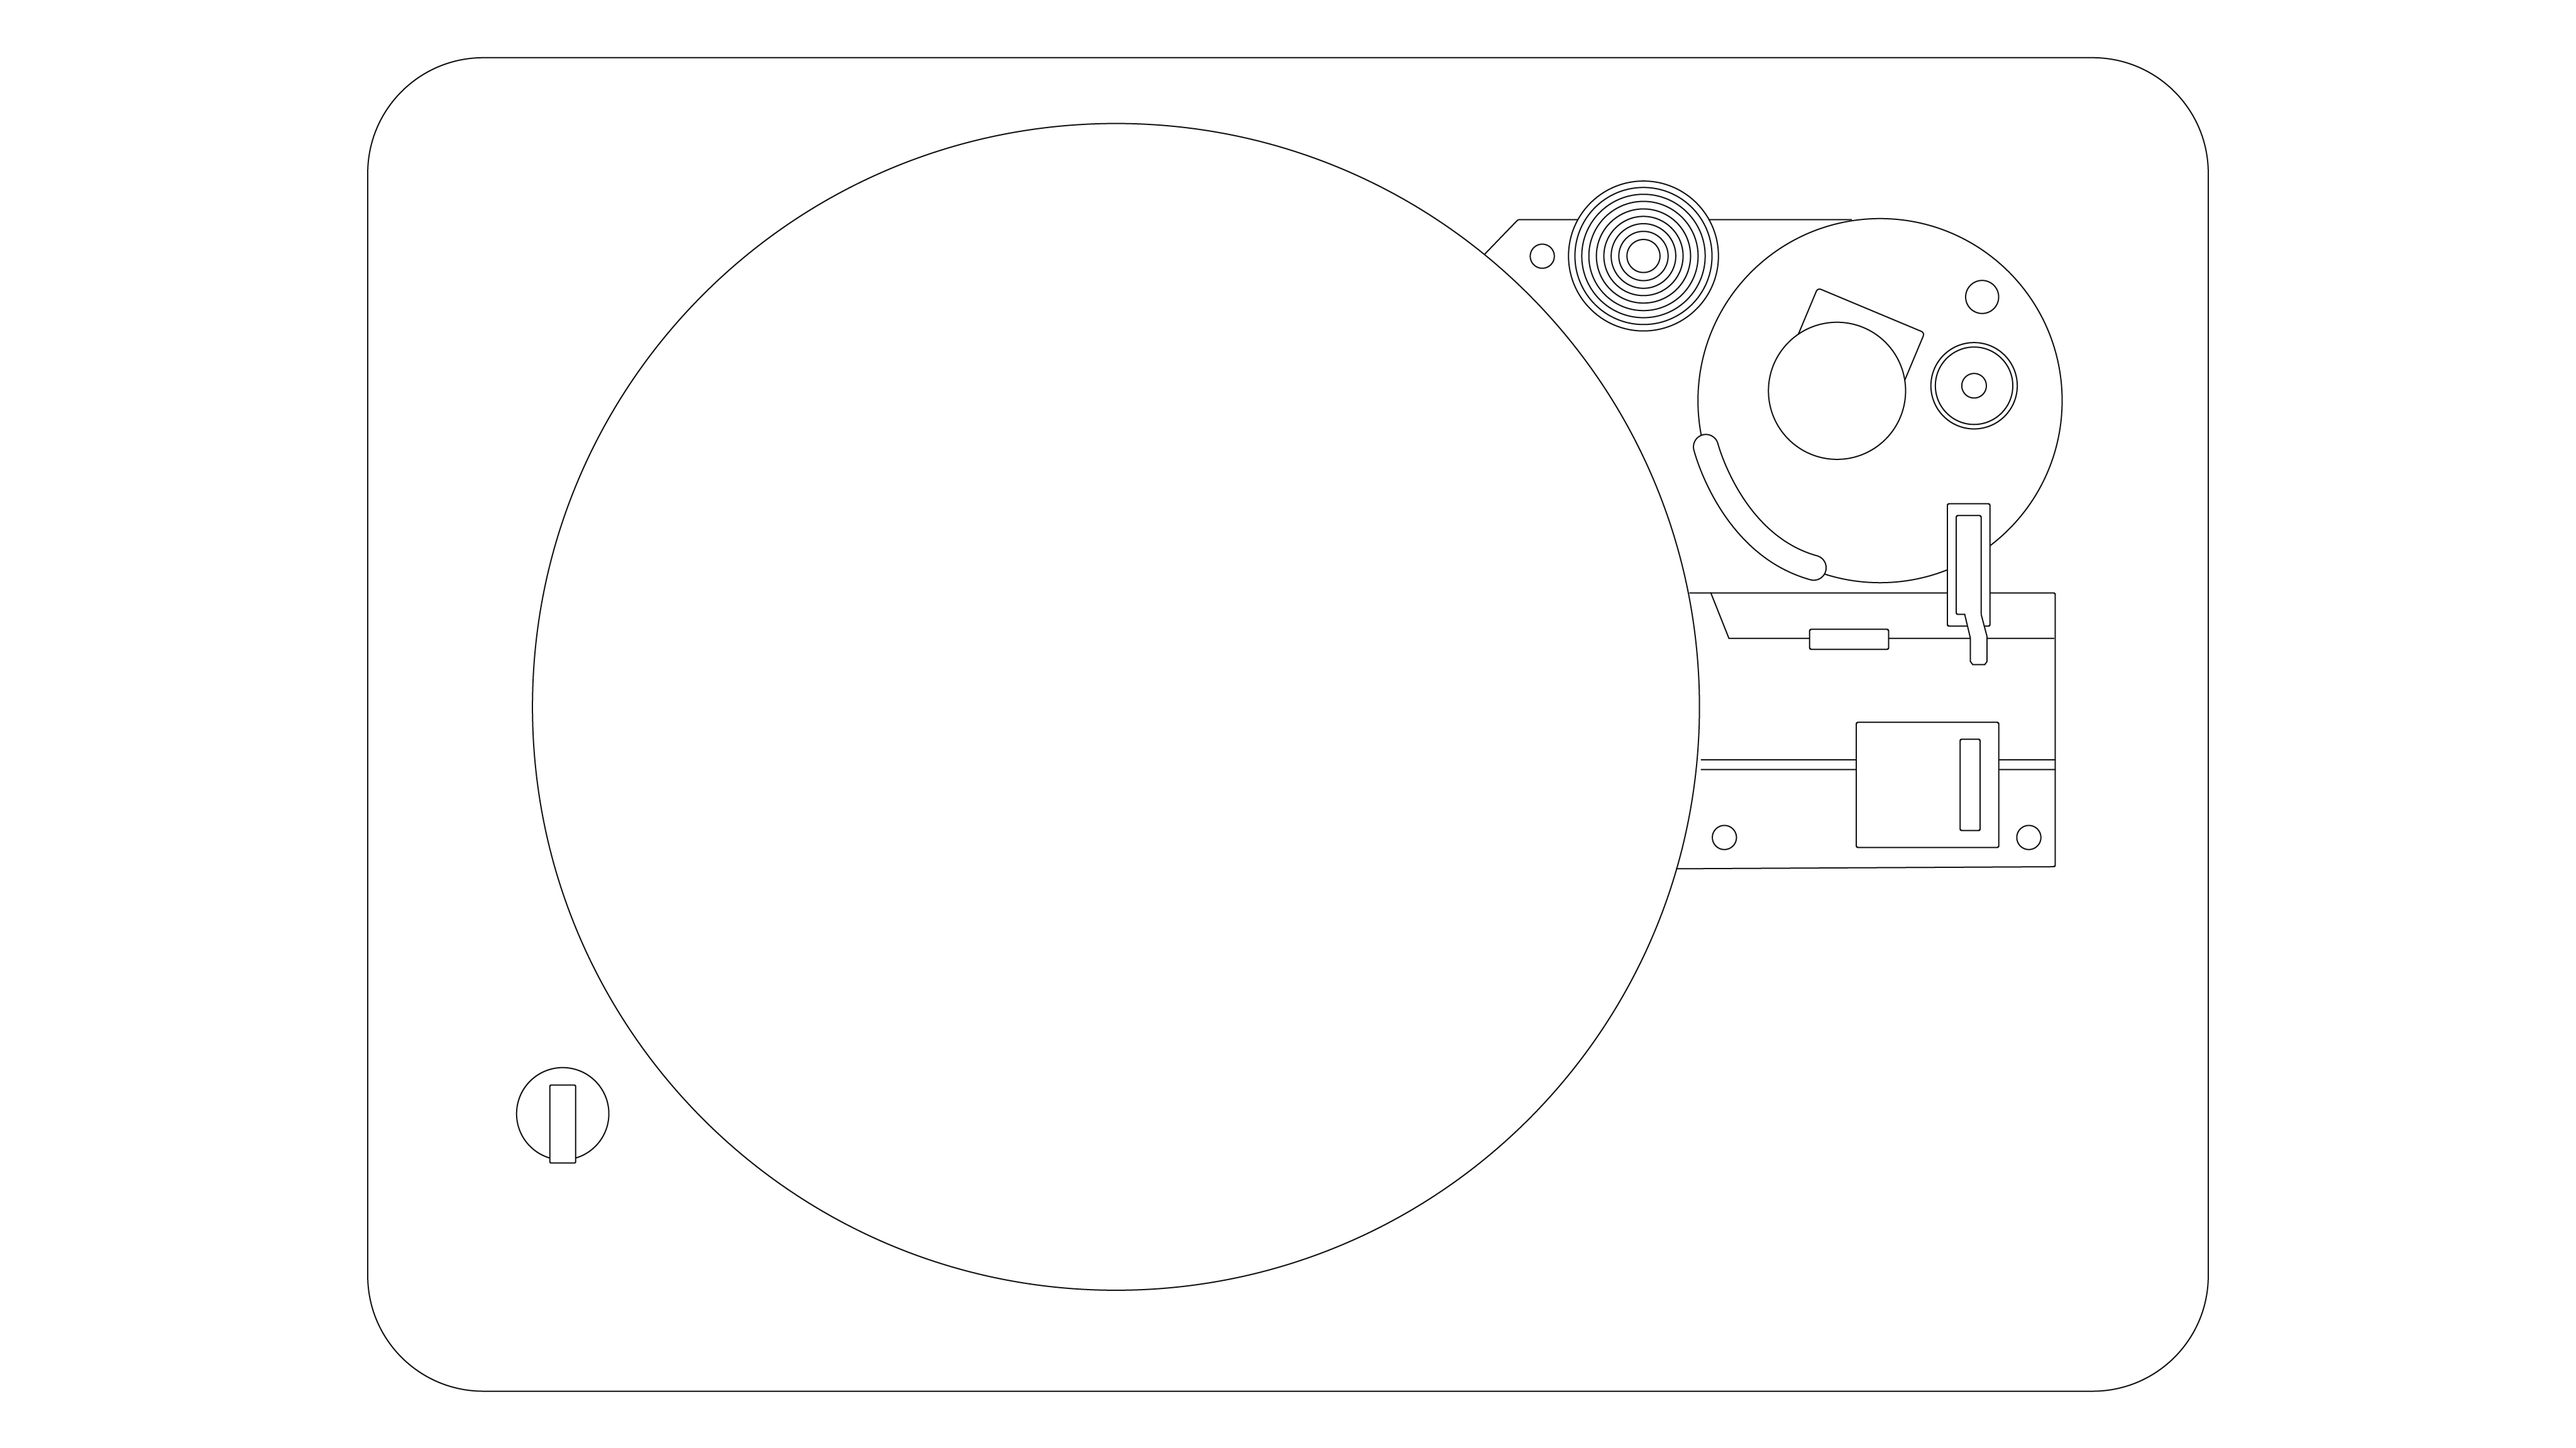
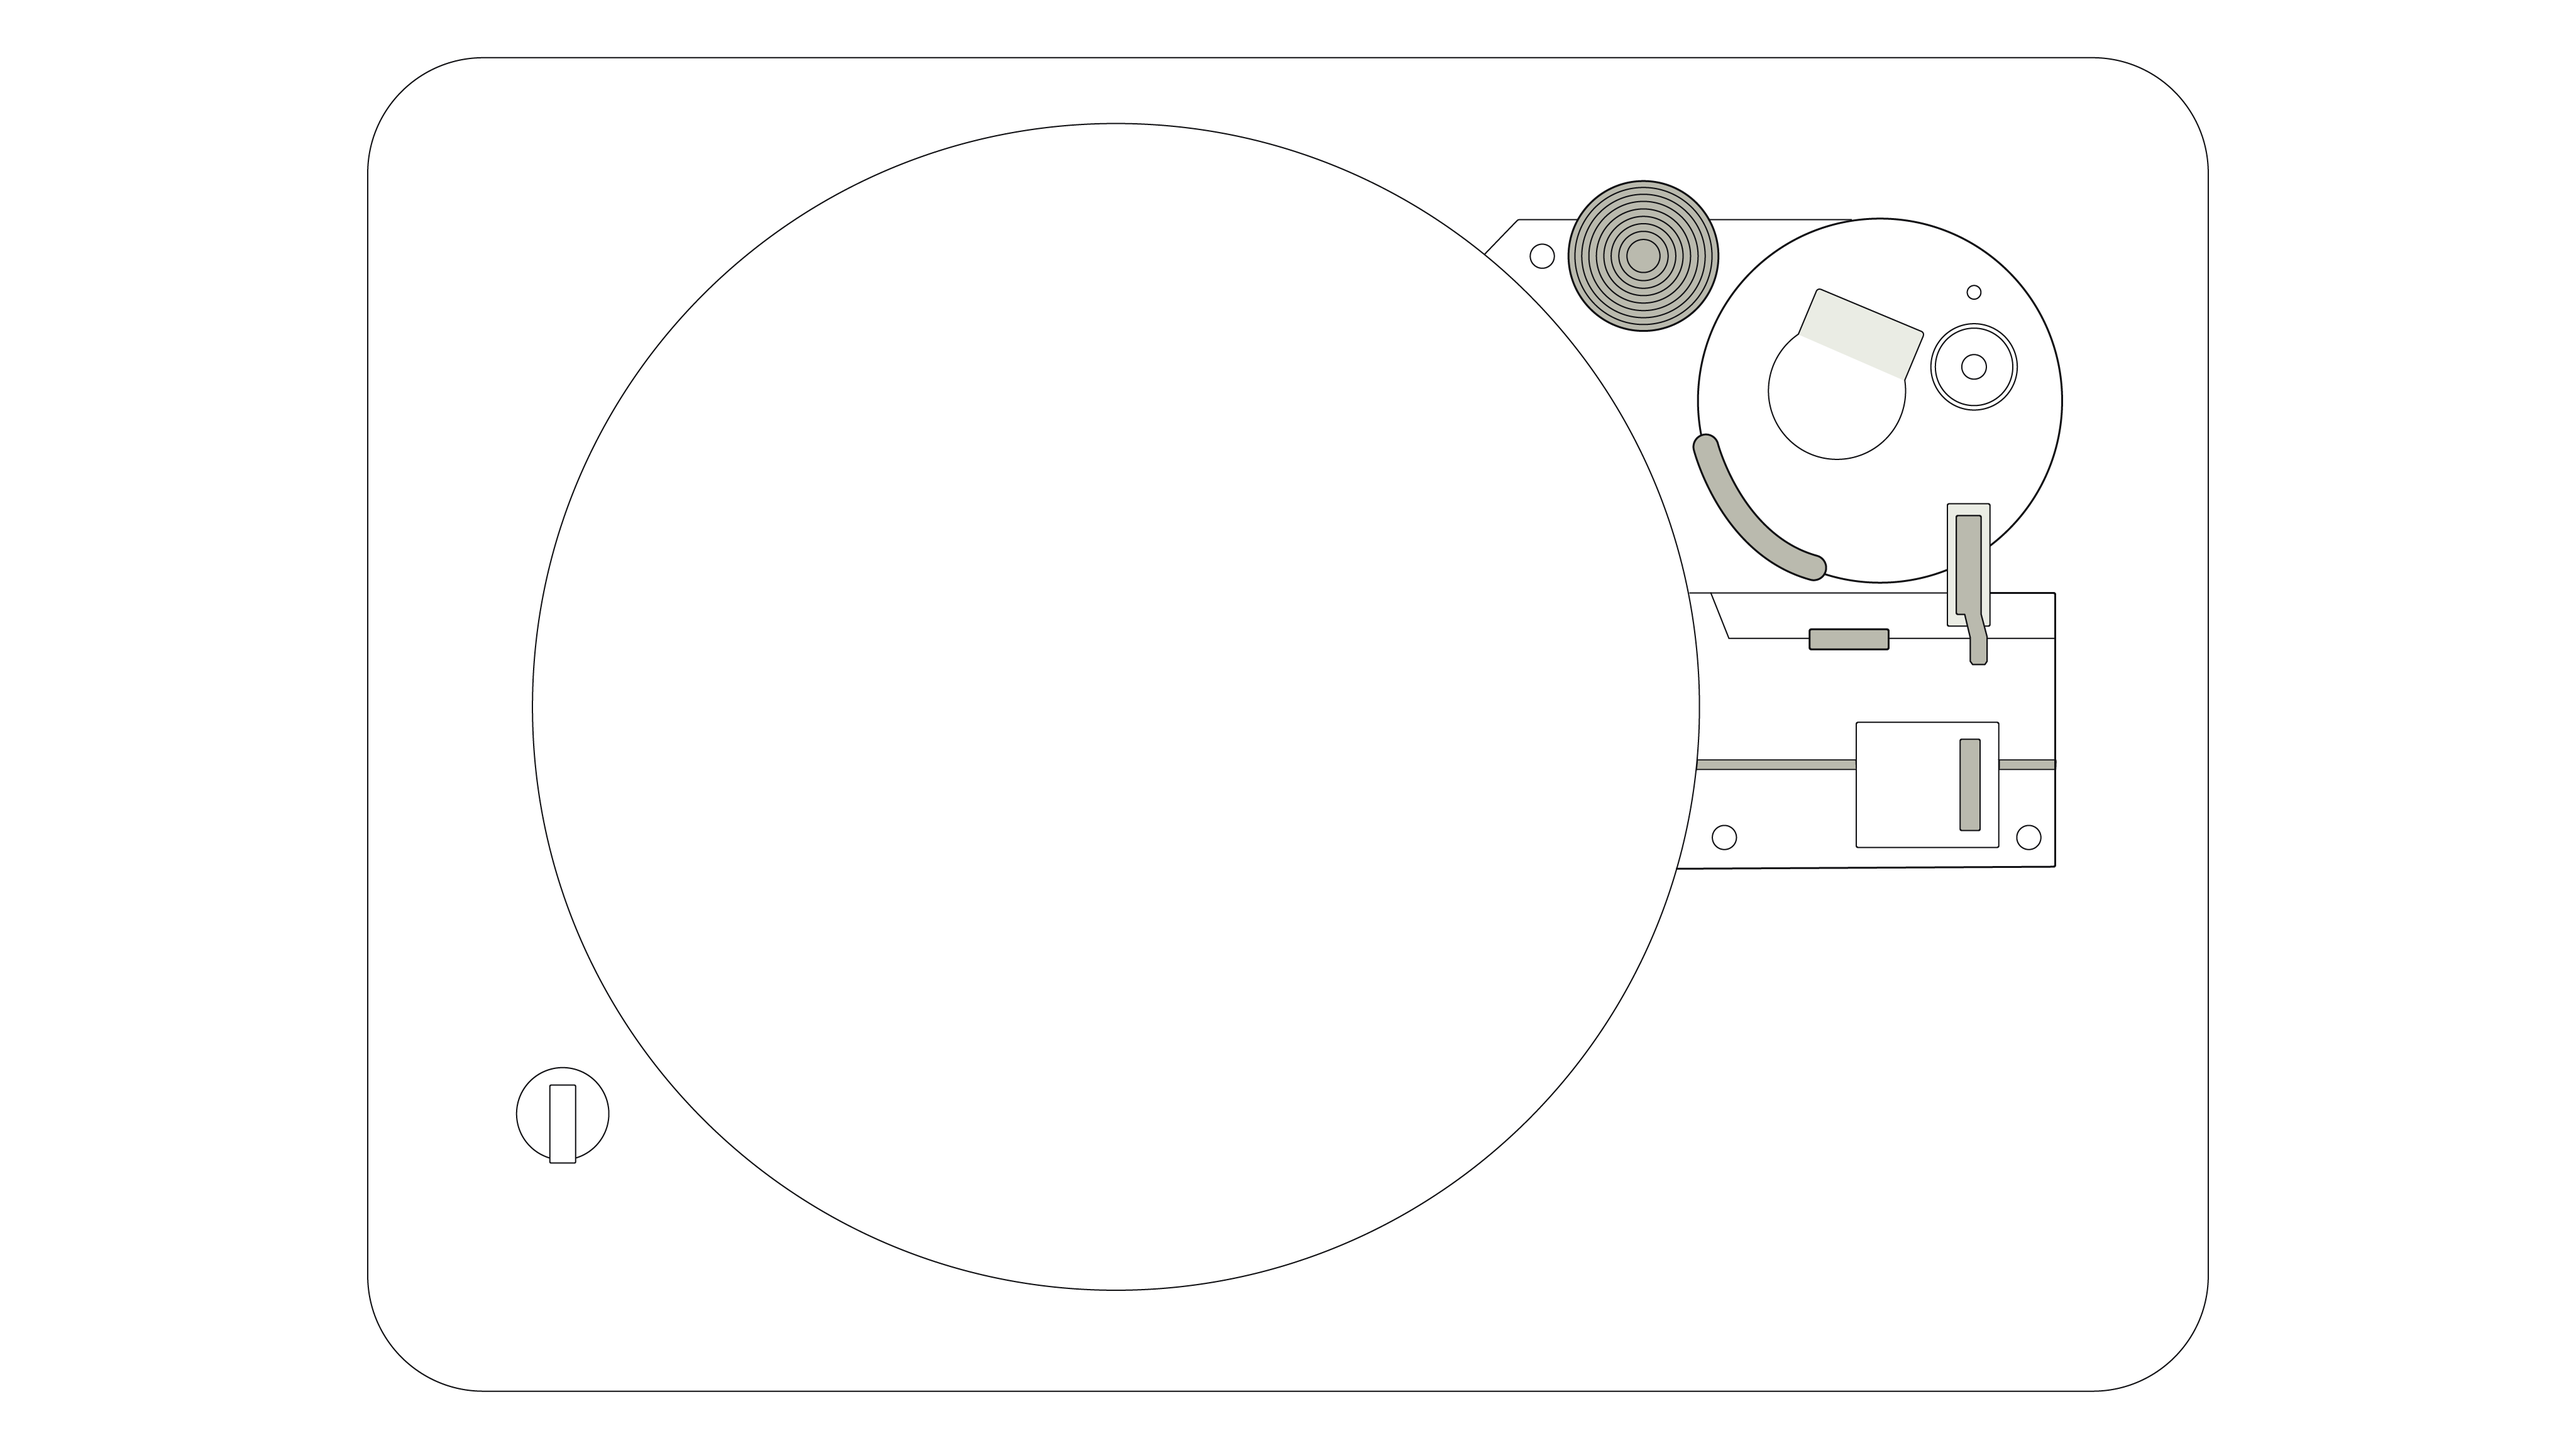
style updated

diff --git a/style.css b/style.css
@@ -52,10 +52,11 @@ dialog::backdrop {
   width: 85rem;
   height: auto;
 }
+/* needle */
 .image2 {
   position: absolute;
-  top: 30px;
-  left: 30px;
+  top: 0px;
+  left: 15px;
   width: 85rem;
   height: auto;
 }
@@ -104,7 +105,7 @@ dialog::backdrop {
   transition-duration: 0.4s;
   font-family: "Instrument Sans", sans-serif;
   font-optical-sizing: auto;
-  font-weight: 300;
+  font-weight: 400;
   font-style: normal;
   font-size: 12px;
   letter-spacing: 0.4px;
@@ -136,7 +137,7 @@ dialog::backdrop {
   appearance: none;
   width: 90%; /* Full-width */
   height: 10px; /* Specified height */
-  background: black;
+  background: #babaae;
   outline: none; /* Remove outline */
   -webkit-transition: 0.2s; /* 0.2 seconds transition on hover */
   transition: opacity 0.2s;
@@ -151,8 +152,8 @@ dialog::backdrop {
 .slider::-webkit-slider-thumb {
   -webkit-appearance: none; /* Override default look */
   appearance: none;
-  width: 26px; /* Set a specific slider handle width */
-  height: 31px; /* Slider handle height */
+  width: 27px; /* Set a specific slider handle width */
+  height: 32px; /* Slider handle height */
   background: url("img/slide.png");
   background-size: contain;
   cursor: pointer; /* Cursor on hover */
